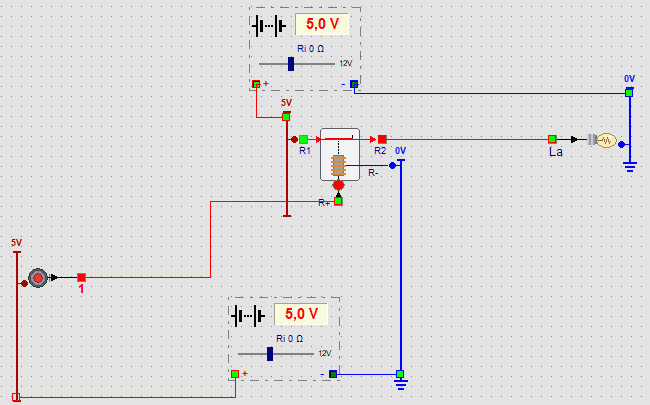
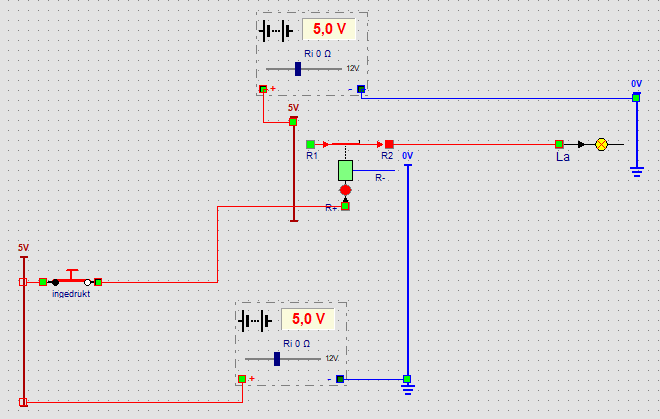
Lessen 10, 11, 26 en 27 met schakelaars en drukknoppen met twee klemmen
- Les 10: drukknoppen tussen hun + rail en de lamp; voltmeter met twee
  klemmen en een min-draad naar de - rail (1,5 V: lamp uit, vanaf 2 V aan).
- Les 11: drukknop met een draad aan de rail van de stuurkring.
- Les 26 en 27: schakelaars en drukknoppen met twee klemmen; de teller van
  les 27 heeft nu ook rails.
- Help (nl, en, fr, de) van les 10 en 11 aangepast, afbeeldingen vernieuwd.

Changed region(s): [[0.0, 0.0, 0.9846, 1.0], [0.5538, 0.1185, 0.5846, 0.1481]]

diff --git a/projects/LogicCEF/helpsrc/fr/les11.html b/projects/LogicCEF/helpsrc/fr/les11.html
@@ -12,8 +12,8 @@
 
   <h2>Deux circuits</h2>
   <ul>
-    <li>Le <b>circuit de commande</b>&nbsp;: la source du bas alimente le rail + de gauche. Le bouton-poussoir est sur ce
-      rail et son fil va vers <b>R+</b>, la bobine du <a href="uitvoer.html#schakelrelais">relais avec contact</a>. La bobine
+    <li>Le <b>circuit de commande</b>&nbsp;: la source du bas alimente le rail + de gauche. Le bouton-poussoir est relié à ce
+      rail par un fil et son autre borne va vers <b>R+</b>, la bobine du <a href="uitvoer.html#schakelrelais">relais avec contact</a>. La bobine
       est avec <b>R&minus;</b> sur le rail &minus; à côté du relais, relié à la borne &minus; de la source du bas.</li>
     <li>Le <b>circuit de puissance</b>&nbsp;: la source du haut alimente un deuxième rail + de 5&nbsp;V. Le contact du relais
       est sur ce rail avec <b>R1</b>. De <b>R2</b>, un fil va vers la lampe, et la lampe est sur le rail &minus; de droite.</li>
@@ -36,7 +36,7 @@
     <summary>Solution</summary>
     <p>Le contact transmet la tension de R1. 1&nbsp;V est inférieur à 2&nbsp;V, donc pour la lampe c&rsquo;est
     &laquo;&nbsp;éteint&nbsp;&raquo; (voir la <a href="les10.html">leçon 10</a>). La bobine fonctionne, car elle reçoit son signal
-    du bouton-poussoir, qui est sur le rail de l&rsquo;autre source de 5&nbsp;V. Pour le ronfleur&nbsp;: placez-le avec son
+    du bouton-poussoir, qui est relié au rail de l&rsquo;autre source de 5&nbsp;V. Pour le ronfleur&nbsp;: placez-le avec son
     côté droit contre un rail &minus; et tirez un deuxième fil de R2 vers son entrée. Une sortie peut avoir plusieurs fils.</p>
   </details>
 

diff --git a/projects/LogicCEF/helpsrc/nl/les11.html b/projects/LogicCEF/helpsrc/nl/les11.html
@@ -12,8 +12,8 @@
 
   <h2>Twee stroomkringen</h2>
   <ul>
-    <li>De <b>stuurkring</b>: de onderste bron voedt de linker + rail. De drukknop staat op die rail en zijn draad
-      gaat naar <b>R+</b>, de spoel van het <a href="uitvoer.html#schakelrelais">schakelrelais</a>. De spoel zit met
+    <li>De <b>stuurkring</b>: de onderste bron voedt de linker + rail. De drukknop hangt met een draad aan die rail en
+      zijn andere klem gaat naar <b>R+</b>, de spoel van het <a href="uitvoer.html#schakelrelais">schakelrelais</a>. De spoel zit met
       <b>R&minus;</b> op de &minus; rail naast het relais, en die is verbonden met de &minus; klem van de onderste bron.</li>
     <li>De <b>werkkring</b>: de bovenste bron voedt een tweede + rail van 5&nbsp;V. Het contact van het relais zit met
       <b>R1</b> op die rail. Vanaf <b>R2</b> loopt een draad naar de lamp, en de lamp zit op de &minus; rail rechts.</li>
@@ -36,7 +36,7 @@
     <summary>Oplossing</summary>
     <p>Het contact geeft de spanning van R1 door. 1&nbsp;V is minder dan 2&nbsp;V, dus voor de lamp is dat
     &bdquo;uit&rdquo; (zie <a href="les10.html">les 10</a>). De spoel werkt wel, want die krijgt haar signaal van de
-    drukknop, die op de rail van de andere bron van 5&nbsp;V staat. Voor de zoemer: zet hem met zijn rechterkant tegen een &minus; rail en
+    drukknop, die aan de rail van de andere bron van 5&nbsp;V hangt. Voor de zoemer: zet hem met zijn rechterkant tegen een &minus; rail en
     leg een tweede draad vanaf R2 naar zijn ingang. Een uitgang mag meerdere draden hebben.</p>
   </details>
 

diff --git a/projects/LogicCEF/helpsrc/en/les11.html b/projects/LogicCEF/helpsrc/en/les11.html
@@ -12,8 +12,8 @@
 
   <h2>Two circuits</h2>
   <ul>
-    <li>The <b>control circuit</b>: the bottom source feeds the left + rail. The push button sits on that rail and its
-      wire goes to <b>R+</b>, the coil of the <a href="uitvoer.html#schakelrelais">switching relay</a>. The coil sits with
+    <li>The <b>control circuit</b>: the bottom source feeds the left + rail. The push button is wired to that rail and its
+      other terminal goes to <b>R+</b>, the coil of the <a href="uitvoer.html#schakelrelais">switching relay</a>. The coil sits with
       <b>R&minus;</b> on the &minus; rail next to the relay, which is connected to the &minus; terminal of the bottom source.</li>
     <li>The <b>load circuit</b>: the top source feeds a second 5&nbsp;V + rail. The contact of the relay sits on that rail
       with <b>R1</b>. From <b>R2</b> a wire runs to the lamp, and the lamp sits on the &minus; rail on the right.</li>
@@ -36,7 +36,7 @@
     <summary>Solution</summary>
     <p>The contact passes on the voltage of R1. 1&nbsp;V is less than 2&nbsp;V, so for the lamp it means
     &ldquo;off&rdquo; (see <a href="les10.html">lesson 10</a>). The coil still works, because it gets its signal from the
-    push button, which sits on the rail of the other 5&nbsp;V source. For the buzzer: put it with its right side against
+    push button, which is wired to the rail of the other 5&nbsp;V source. For the buzzer: put it with its right side against
     a &minus; rail and run a second wire from R2 to its input. An output may have several wires.</p>
   </details>
 

diff --git a/projects/LogicCEF/helpsrc/fr/les10.html b/projects/LogicCEF/helpsrc/fr/les10.html
@@ -23,8 +23,8 @@
   propre rail +&nbsp;; elles partagent le rail &minus;.</p>
 
   <h2>Mesurer la tension</h2>
-  <p>Le <a href="voeding.html#voltmeter">voltmètre</a> est relié au fil du bouton-poussoir du bas et mesure la tension
-  par rapport à la masse&nbsp;: <b>1,5&nbsp;V</b>. Pourtant la lampe reste éteinte. Une entrée logique ne fonctionne
+  <p>Le <a href="voeding.html#voltmeter">voltmètre</a> a sa borne + sur la sortie du bouton-poussoir du bas et sa borne &minus; sur le rail &minus;.
+  Il mesure la tension par rapport à la masse&nbsp;: <b>1,5&nbsp;V</b>. Pourtant la lampe reste éteinte. Une entrée logique ne fonctionne
   qu&rsquo;à partir d&rsquo;environ <b>2&nbsp;V</b>&nbsp;: en dessous, le signal compte comme &laquo;&nbsp;éteint&nbsp;&raquo;.</p>
 
   <h2>Essayez</h2>
@@ -41,7 +41,7 @@
     <summary>Solution</summary>
     <p>À partir de <b>2&nbsp;V</b>, la lampe s&rsquo;allume&nbsp;; à 1,5&nbsp;V et moins, non. Sans le fil vers le rail
     &minus;, le circuit n&rsquo;est pas fermé&nbsp;: le rail + de cette source tombe à 0&nbsp;V et devient gris, et le
-    bouton-poussoir sur ce rail ne fonctionne plus. Aucun courant ne peut circuler sans chemin de retour vers la source.</p>
+    bouton-poussoir relié à ce rail ne fonctionne plus. Aucun courant ne peut circuler sans chemin de retour vers la source.</p>
   </details>
 
   <div class="pager"><a href="les09b.html">&larr; Leçon 9b : Un spectacle de lumière</a><a href="les11.html">Leçon 11 : Le relais &rarr;</a></div>

diff --git a/projects/LogicCEF/helpsrc/en/les10.html b/projects/LogicCEF/helpsrc/en/les10.html
@@ -23,8 +23,8 @@
   they share the &minus; rail.</p>
 
   <h2>Measuring voltage</h2>
-  <p>The <a href="voeding.html#voltmeter">voltmeter</a> hangs on the wire of the bottom push button and measures the
-  voltage against ground: <b>1.5&nbsp;V</b>. Still the lamp stays off. A logic input only works from about
+  <p>The <a href="voeding.html#voltmeter">voltmeter</a> has its + on the output of the bottom push button and its &minus; on the &minus; rail. It
+  measures the voltage against ground: <b>1.5&nbsp;V</b>. Still the lamp stays off. A logic input only works from about
   <b>2&nbsp;V</b>: below that the signal counts as &ldquo;off&rdquo;.</p>
 
   <h2>Try it</h2>
@@ -40,7 +40,7 @@
   <details>
     <summary>Solution</summary>
     <p>From <b>2&nbsp;V</b> the lamp lights up; at 1.5&nbsp;V and lower it does not. Without the wire to the &minus; rail
-    the circuit is not closed: the + rail of that source drops to 0&nbsp;V and turns grey, and the push button on that
+    the circuit is not closed: the + rail of that source drops to 0&nbsp;V and turns grey, and the push button fed from that
     rail no longer works. No current can flow without a way back to the source.</p>
   </details>
 

diff --git a/projects/LogicCEF/helpsrc/nl/les10.html b/projects/LogicCEF/helpsrc/nl/les10.html
@@ -23,8 +23,8 @@
   de &minus; rail delen ze.</p>
 
   <h2>Spanning meten</h2>
-  <p>De <a href="voeding.html#voltmeter">voltmeter</a> hangt aan de draad van de onderste drukknop en meet de spanning
-  tegenover de massa: <b>1,5&nbsp;V</b>. Toch blijft de lamp uit. Een logische ingang werkt pas vanaf ongeveer
+  <p>De <a href="voeding.html#voltmeter">voltmeter</a> zit met + aan de uitgang van de onderste drukknop en met &minus; aan de &minus; rail. Hij
+  meet de spanning tegenover de massa: <b>1,5&nbsp;V</b>. Toch blijft de lamp uit. Een logische ingang werkt pas vanaf ongeveer
   <b>2&nbsp;V</b>: daaronder telt het signaal als &ldquo;uit&rdquo;.</p>
 
   <h2>Probeer het</h2>
@@ -40,7 +40,7 @@
   <details>
     <summary>Oplossing</summary>
     <p>Vanaf <b>2&nbsp;V</b> brandt de lamp; bij 1,5&nbsp;V en lager niet. Zonder de draad naar de &minus; rail is de
-    kring niet gesloten: de + rail van die bron valt op 0&nbsp;V en wordt grijs, en de drukknop op die rail werkt niet
+    kring niet gesloten: de + rail van die bron valt op 0&nbsp;V en wordt grijs, en de drukknop aan die rail werkt niet
     meer. Er kan geen stroom lopen zonder een weg terug naar de bron.</p>
   </details>
 

diff --git a/projects/LogicCEF/helpsrc/de/les11.html b/projects/LogicCEF/helpsrc/de/les11.html
@@ -12,8 +12,8 @@
 
   <h2>Zwei Stromkreise</h2>
   <ul>
-    <li>Der <b>Steuerstromkreis</b>: Die untere Quelle speist die linke + Schiene. Der Taster sitzt an dieser Schiene, sein
-      Draht führt zu <b>R+</b>, der Spule des <a href="uitvoer.html#schakelrelais">Schaltrelais</a>. Die Spule sitzt mit
+    <li>Der <b>Steuerstromkreis</b>: Die untere Quelle speist die linke + Schiene. Der Taster hängt mit einem Draht an dieser Schiene, seine
+      andere Klemme führt zu <b>R+</b>, der Spule des <a href="uitvoer.html#schakelrelais">Schaltrelais</a>. Die Spule sitzt mit
       <b>R&minus;</b> an der &minus; Schiene neben dem Relais; diese ist mit der &minus; Klemme der unteren Quelle verbunden.</li>
     <li>Der <b>Laststromkreis</b>: Die obere Quelle speist eine zweite + Schiene mit 5&nbsp;V. Der Kontakt des Relais sitzt
       mit <b>R1</b> an dieser Schiene. Von <b>R2</b> führt ein Draht zur Lampe, und die Lampe sitzt an der &minus; Schiene rechts.</li>

diff --git a/projects/LogicCEF/helpsrc/de/les10.html b/projects/LogicCEF/helpsrc/de/les10.html
@@ -23,8 +23,8 @@
   + Schiene; die &minus; Schiene teilen sie sich.</p>
 
   <h2>Spannung messen</h2>
-  <p>Das <a href="voeding.html#voltmeter">Voltmeter</a> hängt am Draht des unteren Tasters und misst die Spannung gegen
-  Masse: <b>1,5&nbsp;V</b>. Trotzdem bleibt die Lampe aus. Ein Logikeingang funktioniert erst ab etwa <b>2&nbsp;V</b>:
+  <p>Das <a href="voeding.html#voltmeter">Voltmeter</a> hängt mit + am Ausgang des unteren Tasters und mit &minus; an der &minus; Schiene. Es
+  misst die Spannung gegen Masse: <b>1,5&nbsp;V</b>. Trotzdem bleibt die Lampe aus. Ein Logikeingang funktioniert erst ab etwa <b>2&nbsp;V</b>:
   darunter gilt das Signal als &bdquo;aus&ldquo;.</p>
 
   <h2>Ausprobieren</h2>
